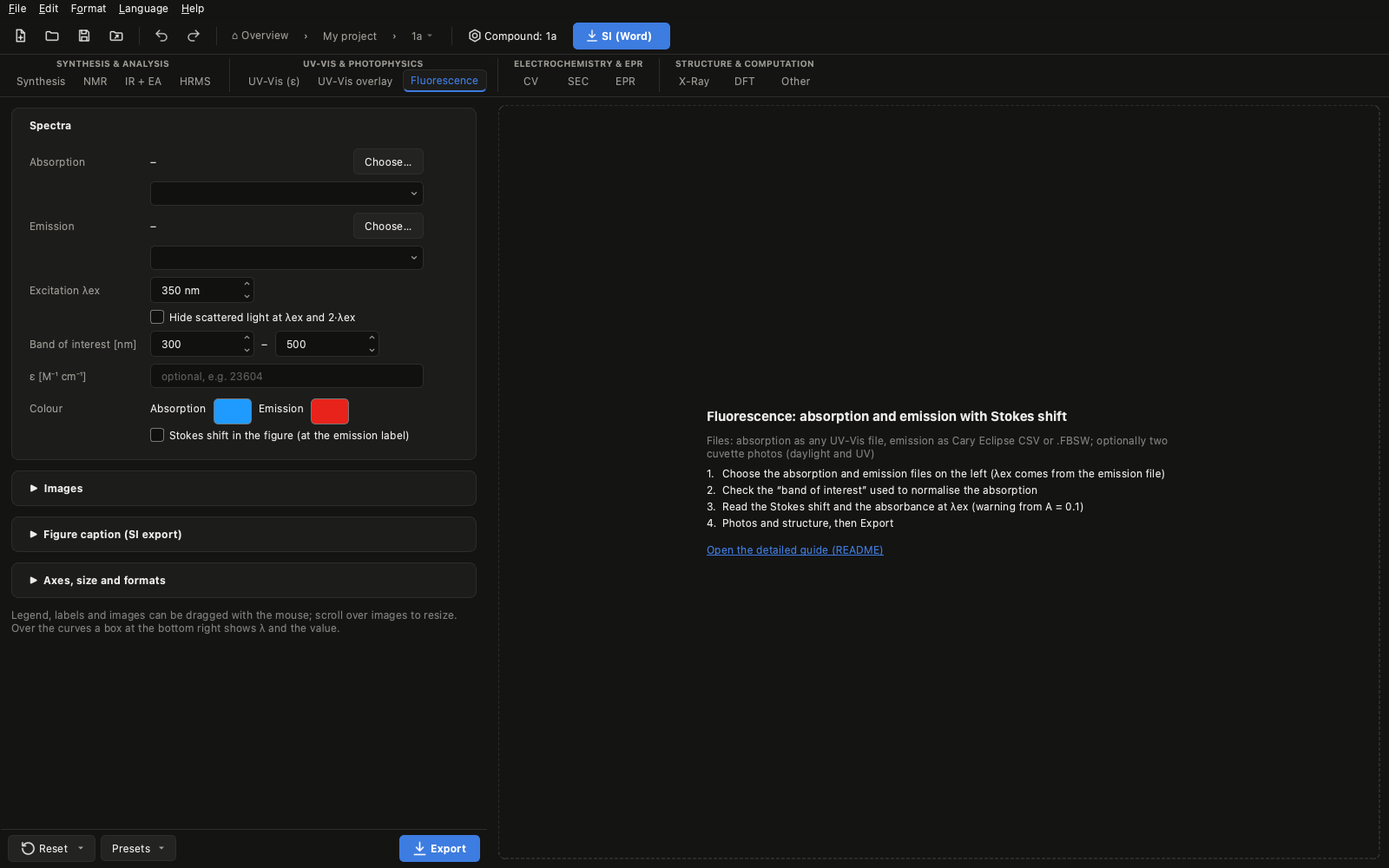
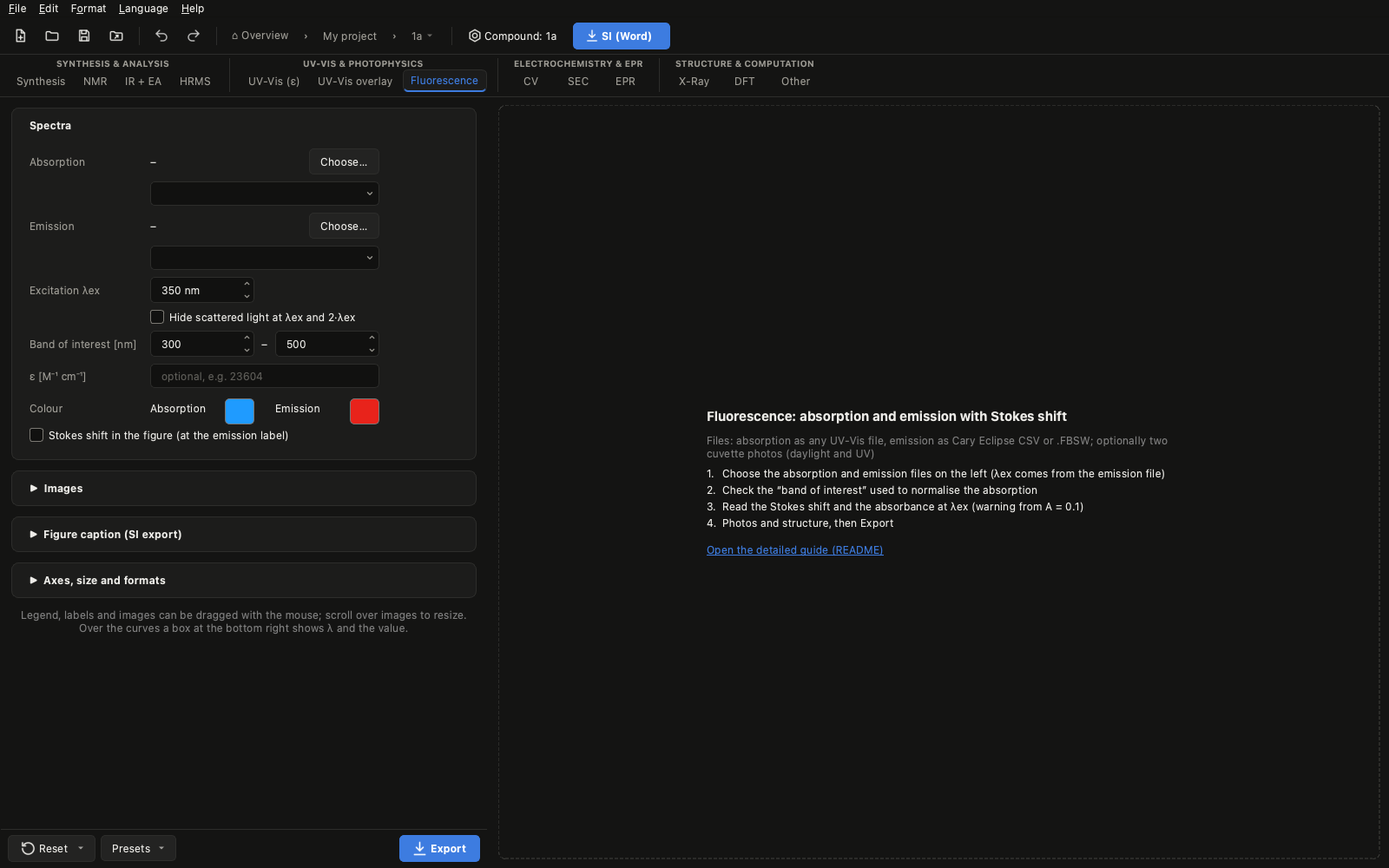
ui: two-column field grid, centred table cells, superscript nuclei
- Field grid A | gap | B (STYLE._field_edge): ranges, choice + value, value + checkbox in A and B;
  lists, text fields and file rows exactly to the common edge; long in-between labels and
  "☑ full"-type checkboxes on their own line; checkbox rows two per line; file rows with bin icon
- Table cells centred like the headers (STYLE._CellDelegate); colour swatches centred in cells
- NMR lists: superscript mass numbers (¹H, ¹³C; DEPT135/2D unchanged), selftest assert
- Hint below the cards centred; changelogs and README screenshots

Changed region(s): [[0.0, 0.682, 0.3438, 0.744], [0.0312, 0.434, 0.2812, 0.527], [0.25, 0.248, 0.2812, 0.279]]

diff --git a/elucida/app/style.py b/elucida/app/style.py
@@ -150,9 +150,13 @@ def hide_when_empty(table):
     upd()
 
 
-class _CheckDelegate(QStyledItemDelegate):
-    """Kästchen ohne Text mittig in der Zelle (Qt setzt es sonst an den linken Rand, z. B. unter breiten Überschriften).
-    Zeichnen und Klicken über dasselbe Rechteck; Zellen mit Text bleiben unverändert."""
+class _CellDelegate(QStyledItemDelegate):
+    """Tabellenzellen mittig wie die Spaltenüberschriften (Nutzerwunsch); Kästchen ohne Text mittig in der Zelle (Qt
+    setzt es sonst an den linken Rand) – Zeichnen und Klicken über dasselbe Rechteck."""
+
+    def initStyleOption(self, option, index):
+        super().initStyleOption(option, index)
+        option.displayAlignment = Qt.AlignCenter
 
     def _box(self, option, index):
         if index.data(Qt.DisplayRole) or index.data(Qt.CheckStateRole) is None:
@@ -230,7 +234,8 @@ def card(title):
 
 
 FIELD_W = 120                     # einheitliche Breite der Zahlenfelder (Raster der linken Spalte)
-WIDE_W = 2 * FIELD_W + 24          # Wertespalte: Listen, Textfelder, „[a] – [b]“ enden an einer Kante (Nutzerwunsch)
+GAP_W = 24                         # Lücke zwischen Feld A und B (Platz für „–“/„×“)
+WIDE_W = 2 * FIELD_W + GAP_W       # Wertespalte: Listen, Textfelder, „[a] – [b]“ enden an einer Kante (Nutzerwunsch)
 COLUMN_W = 538                    # linke Spalte in allen Tabs gleich breit (breiter nur, wenn Inhalt sonst abgeschnitten)
 CHECKS_IN_FIELD_COLUMN = True     # Häkchen-Zeilen in der Wertespalte (eine Kante für alle Bedienelemente)
 
@@ -243,48 +248,132 @@ def _fw(fl, r):
     return li.sizeHint().width() + fl.horizontalSpacing() + fi.sizeHint().width()
 
 
+def _cell(x, w):
+    """Feld fest auf eine Rasterbreite setzen (Zahlenfelder setzt _WheelGuard nach dem Stylesheet erneut)."""
+    if x.maximumWidth() != w:
+        x.setFixedWidth(w)
+
+
+def _strip_stretch(lay):
+    for i in reversed(range(lay.count())):
+        if lay.itemAt(i).spacerItem() is not None:
+            lay.takeAt(i)
+
+
 def _field_edge(root):
-    """Wertespalte je Tab an einer Kante (siehe unten): Listen und Textfelder
-    genau so breit, in Zeilen mit mehreren Teilen wächst das erste dehnbare Element (Dateiname, Textfeld, Lücke vor
-    den Knöpfen) auf die Kante. Feste Breiten statt Formularrand: der würde die Mindestbreite der Spalte mitziehen."""
-    from PySide6.QtWidgets import QAbstractScrollArea, QLineEdit
-    forms = [fl for fl in root.findChildren(QFormLayout) if fl.parentWidget() is not None]
-    items = [it for fl in forms for it in (fl.itemAt(r, QFormLayout.FieldRole) for r in range(fl.rowCount()))
-             if it is not None]
-    if not items:
-        return
-    for it in items:
-        if it.widget() is not None:
-            it.widget().ensurePolished()
-    # Kante je Tab: mindestens WIDE_W, sonst die breiteste Zeile aus mehreren Teilen („[a] Ränder [b]“), aber nie
-    # breiter als die feste Spalte (COLUMN_W abzüglich Ränder und Beschriftungsspalte) – die Abbildung bleibt gleich groß
-    lab = max((fl.itemAt(r, QFormLayout.LabelRole).widget().minimumWidth() for fl in forms for r in range(fl.rowCount())
-               if fl.itemAt(r, QFormLayout.LabelRole) is not None and fl.itemAt(r, QFormLayout.LabelRole).widget()),
-              default=0)
-    room = COLUMN_W - 2 * 12 - 2 * 16 - lab - 12 - 10          # Reserve: verschachtelte Karten, Klappkarten
-    wide = max([WIDE_W] + [h for h in (it.sizeHint().width() for it in items if it.layout() is not None) if h <= room])
-    stretchy = (QLineEdit, QComboBox, QAbstractScrollArea)
-    for fl in forms:
+    """Zwei-Spalten-Raster der Wertespalte (Nutzerwunsch Symmetrie): Feld A = FIELD_W, Lücke GAP_W, Feld B = FIELD_W,
+    zusammen WIDE_W. Einzelwert in A; „[a] – [b]“, „[a] × [b]“, Auswahl + Wert und Wert + Häkchen in A und B; Listen,
+    Textfelder und Dateizeilen genau bis zur Kante. Zwei Werte mit langer Zwischenbeschriftung („[a] Ränder [b]“)
+    und „☑ gesamt [a] – [b]“ bekommen eine zweite Zeile. Feste Breiten statt Formularrand (der zöge die Spalte mit)."""
+    from PySide6.QtWidgets import QAbstractScrollArea, QCheckBox, QLineEdit
+    from elucida.app.i18n import T
+    U, G, W = FIELD_W, GAP_W, WIDE_W
+    value = (QAbstractSpinBox, QComboBox, QLineEdit)
+    for fl in [fl for fl in root.findChildren(QFormLayout) if fl.parentWidget() is not None]:
         fl.setFieldGrowthPolicy(QFormLayout.FieldsStayAtSizeHint)
-    for it in items:
-        w, lay = it.widget(), it.layout()
-        if isinstance(w, stretchy) and w.maximumWidth() != FIELD_W:
-            w.setFixedWidth(wide)
-        elif isinstance(lay, QHBoxLayout) and lay.sizeHint().width() < wide:
-            extra = wide - lay.sizeHint().width()
-            for i in range(lay.count()):
-                sub_ = lay.itemAt(i)
-                x = sub_.widget()
-                if sub_.spacerItem() is not None and sub_.expandingDirections() & Qt.Horizontal:
-                    sp = sub_.spacerItem()
-                    sp.changeSize(sp.sizeHint().width() + extra, 0, QSizePolicy.Fixed, QSizePolicy.Minimum)
-                elif (isinstance(x, stretchy) or (isinstance(x, QLabel) and lay.stretch(i) > 0)) and \
-                        x.maximumWidth() != FIELD_W:
-                    x.setFixedWidth(x.sizeHint().width() + extra)
+        for r in reversed(range(fl.rowCount())):            # Häkchenreihen (≥ 3) zu zweit in Feld A und B
+            it = fl.itemAt(r, QFormLayout.SpanningRole)
+            lay = it.layout() if it is not None else None
+            if not isinstance(lay, QHBoxLayout):
+                continue
+            cbs = [lay.itemAt(i).widget() for i in range(lay.count()) if lay.itemAt(i).widget() is not None]
+            if len(cbs) < 3 or not all(isinstance(x, QCheckBox) for x in cbs):
+                continue
+            for x in cbs:
+                lay.removeWidget(x)
+            fl.removeRow(r)                                   # leeres Layout weg (Widgets sind schon herausgenommen)
+            for k in reversed(range(0, len(cbs), 2)):
+                h = QHBoxLayout()
+                h.setSpacing(0)
+                h.setProperty("grid", True)
+                cbs[k].setFixedWidth(U + G)
+                h.addWidget(cbs[k])
+                if k + 1 < len(cbs):
+                    h.addWidget(cbs[k + 1])
+                h.addStretch(1)
+                fl.insertRow(r, "", h)
+        for r in reversed(range(fl.rowCount())):
+            it = fl.itemAt(r, QFormLayout.FieldRole)
+            if it is None:
+                continue
+            w, lay = it.widget(), it.layout()
+            if w is not None:
+                if isinstance(w, (QLineEdit, QComboBox, QAbstractScrollArea)) and w.maximumWidth() != U:
+                    _cell(w, W)
+                continue
+            if not isinstance(lay, QHBoxLayout) or lay.property("grid"):
+                continue
+            lay.setProperty("grid", True)
+            ws = [lay.itemAt(i).widget() for i in range(lay.count()) if lay.itemAt(i).widget() is not None]
+            if len(ws) >= 3 and isinstance(ws[0], QCheckBox) and isinstance(ws[1], value):
+                lay.removeWidget(ws[0])                        # „☑ gesamt“/„☑ einsetzen“ unter die Werte
+                fl.insertRow(r + 1, "", ws[0])
+                ws = ws[1:]
+            if len(ws) == 3 and isinstance(ws[0], value) and isinstance(ws[1], QLabel) and isinstance(ws[2], value):
+                a, mid, b = ws
+                _cell(a, U)
+                _cell(b, U)
+                if len(mid.text().strip()) > 1:               # lange Zwischenbeschriftung: eigene Zeile
+                    lay.removeWidget(mid)
+                    lay.removeWidget(b)
+                    lab = fl.itemAt(r, QFormLayout.LabelRole)
+                    lab = lab.widget() if lab is not None else None
+                    mid.setWordWrap(True)
+                    mid.setProperty("formlabel", True)
+                    if lab is not None and lab.maximumWidth() < 10000:
+                        mid.setMinimumWidth(lab.minimumWidth())
+                        mid.setMaximumWidth(lab.maximumWidth())
+                    mid.setMinimumHeight(b.sizeHint().height())
+                    mid.setAlignment(Qt.AlignLeft | Qt.AlignVCenter)
+                    mid.style().unpolish(mid)
+                    mid.style().polish(mid)
+                    fl.insertRow(r + 1, mid, b)
                 else:
-                    continue
-                lay.invalidate()
-                break
+                    lay.setSpacing(0)
+                    mid.setMinimumWidth(G)
+                    mid.setMaximumWidth(G)
+                    mid.setAlignment(Qt.AlignCenter)
+                _strip_stretch(lay)
+                continue
+            if len(ws) == 2 and isinstance(ws[0], value) and isinstance(ws[1], (QCheckBox,) + value):
+                _cell(ws[0], U)
+                if isinstance(ws[1], value):
+                    _cell(ws[1], U)
+                lay.setSpacing(G)
+                _strip_stretch(lay)
+                continue
+            if len(ws) == 4 and isinstance(ws[0], QLabel) and isinstance(ws[2], QLabel) and \
+                    not isinstance(ws[1], value + (QLabel,)) and not isinstance(ws[3], value + (QLabel,)):
+                # „Absorption [■] Emission [■]“: je ein Paar in Feld A und B
+                lay.setSpacing(8)
+                _strip_stretch(lay)
+                for lb, x in ((ws[0], ws[1]), (ws[2], ws[3])):
+                    if isinstance(x, QPushButton):            # Farbfeld quadratisch wie die Symbolknöpfe
+                        x.setFixedWidth(34)
+                    lb.setMinimumWidth(0)
+                    lb.setFixedWidth(max(20, U - x.maximumWidth() if isinstance(x, QPushButton) else
+                                         U - x.sizeHint().width()) - 8)
+                lay.insertSpacing(lay.indexOf(ws[2]), G - 8)
+                continue
+            # Datei-, Einheits- und Auswahl+Knopf-Zeilen: das dehnbare Element füllt bis zur Kante
+            fill = [x for x in ws if (isinstance(x, QLabel) and lay.stretch(lay.indexOf(x)) > 0)
+                    or (isinstance(x, (QLineEdit, QComboBox)) and x.maximumWidth() != U)]
+            if not fill:
+                continue
+            for x in ws:
+                if isinstance(x, QPushButton) and x.text() == T("remove") and len(ws) > 2:
+                    x.setToolTip(T("remove"))                 # Dateizeilen: Papierkorb statt Text (Platz für den Namen)
+                    x.setText("")
+                    x.setIcon(icon("trash"))
+                    x.setFixedWidth(34)
+            others = sum(x.minimumWidth() if x.minimumWidth() == x.maximumWidth() else x.sizeHint().width()
+                         for x in ws if x is not fill[0]) + 8 * (len(ws) - 1)
+            if W - others < 60:                               # passt nicht ins Raster: Zeile bleibt, wie sie ist
+                continue
+            lay.setSpacing(8)
+            _strip_stretch(lay)
+            fill[0].setMinimumWidth(0)
+            fill[0].setFixedWidth(W - others)
 
 
 def tidy(root):
@@ -355,6 +444,9 @@ def tidy(root):
             if isinstance(first, QCheckBox) and isinstance(second, QAbstractSpinBox):
                 lay.setSpacing(8)                             # -1 (Stil-Standard) verschob den Wert um 1 px
                 first.setMinimumWidth(lab_w + fl.horizontalSpacing() - lay.spacing())
+                if lay.count() > 2 and not lay.property("grid"):   # drittes Element in Feld B
+                    lay.setProperty("grid", True)
+                    lay.insertSpacing(2, GAP_W - lay.spacing())
         # Beschriftung so hoch wie ihr Feld, Text darin mittig: Qt setzt Beschriftungen sonst mit einem festen Versatz,
         # der bei den höheren Feldern 2–3 px zu hoch liegt
         for r in range(fl.rowCount()):
@@ -391,14 +483,14 @@ def tidy(root):
                         lay.setContentsMargins(indent, 0, 0, 0)
     _field_edge(root)
     from PySide6.QtWidgets import QTableWidget
-    for t in root.findChildren(QTableWidget):                # Kästchen ohne Text mittig (alle Listen)
-        if not isinstance(t.itemDelegate(), _CheckDelegate):
-            t.setItemDelegate(_CheckDelegate(t))
+    for t in root.findChildren(QTableWidget):                # Zellen und Kästchen mittig (alle Tabellen)
+        if not isinstance(t.itemDelegate(), _CellDelegate):
+            t.setItemDelegate(_CellDelegate(t))
     for h in root.findChildren(HintLabel):                    # leere Hinweise ohne Zeile
         h.sync()
     for lay in root.findChildren(QHBoxLayout):
         items = [lay.itemAt(i) for i in range(lay.count())]
-        if any(isinstance(it.widget(), (QLabel, QCheckBox)) for it in items[1:]):   # Beschriftung nicht ankleben
+        if not lay.property("grid") and any(isinstance(it.widget(), (QLabel, QCheckBox)) for it in items[1:]):   # Beschriftung nicht ankleben
             lay.setSpacing(max(lay.spacing(), 8))
         ws = [it.widget() for it in items if it.widget() is not None]
         # nur feste Elemente: links zusammenhalten statt über die Breite verteilen

diff --git a/elucida/tabs/base.py b/elucida/tabs/base.py
@@ -88,16 +88,20 @@ def reset_button(reset_layout, reset_defaults):
     return b
 
 
-def color_button(color, on_pick):
+def color_button(color, on_pick, cell=False):
+    """Farbfeld; cell: in einer Tabellenzelle mit gleichem Rand ringsum (mittig wie die übrigen Zellen)."""
     b = QPushButton()
-    b.setFixedSize(44, 22)
-    b.setStyleSheet(f"background-color: {color}; border: 1px solid #777;")
+    css = "margin: 4px 12px; " if cell else ""
+    if not cell:
+        b.setFixedSize(44, 22)
+    b.setProperty("cellcss", css)
+    b.setStyleSheet(f"{css}background-color: {color}; border: 1px solid #777;")
 
     def pick():
         c = QColorDialog.getColor(QColor(b.property("color") or color))
         if c.isValid():
             b.setProperty("color", c.name())
-            b.setStyleSheet(f"background-color: {c.name()}; border: 1px solid #777;")
+            b.setStyleSheet(f"{css}background-color: {c.name()}; border: 1px solid #777;")
             on_pick(c.name())
     b.setProperty("color", color)
     b.clicked.connect(pick)
@@ -500,7 +504,7 @@ class FigureTab(QWidget):
         self.build_controls()
         self.grp_common = self.common_box()
         self.lv.addWidget(self.grp_common)
-        hint = QLabel(T("drag_hint_tab"))
+        hint = QLabel(T("drag_hint_tab"), alignment=Qt.AlignHCenter)     # Fußnote unter den Karten: mittig
         hint.setWordWrap(True)
         hint.setStyleSheet(HINT_CSS)
         self.lv.addWidget(hint)
@@ -1689,7 +1693,7 @@ class OverlayTab(FigureTab):
             it.setCheckState(Qt.Checked if e["visible"] else Qt.Unchecked)
             self.table.setItem(i, 0, it)
             self.table.setItem(i, 1, QTableWidgetItem(e["label"]))
-            self.table.setCellWidget(i, 2, color_button(e["color"], lambda c, e=e: self._set_color(e, c)))
+            self.table.setCellWidget(i, 2, color_button(e["color"], lambda c, e=e: self._set_color(e, c), cell=True))
             it = QTableWidgetItem(T("ov_eps_linked") if e.get("link") == "eps" else
                                   {"exp": T("ov_exp"), "sec": "SEC", "secser": T("ov_sec_series")}.get(e["kind"], "TD-DFT"))
             it.setFlags(it.flags() & ~Qt.ItemIsEditable)

diff --git a/elucida/tabs/nmr.py b/elucida/tabs/nmr.py
@@ -412,6 +412,14 @@ from PySide6.QtWidgets import (QAbstractItemView, QCheckBox, QComboBox, QDoubleS
 from elucida.app import project as PRJ, style as STYLE  # noqa: E402
 from elucida.app.style import HINT_CSS, make_form  # noqa: E402
 
+_SUP = str.maketrans("0123456789", "⁰¹²³⁴⁵⁶⁷⁸⁹")
+
+
+def sup_nuclei(text):
+    """Massenzahl vor einem Elementsymbol hochstellen (1H/13C -> ¹H/¹³C; DEPT135 bleibt) – nur für die Anzeige."""
+    return re.sub(r"(?<![A-Za-z0-9])\d+(?!D\b)(?=[A-Z])", lambda m: m.group().translate(_SUP), text or "")   # „2D“ bleibt
+
+
 FIG_W_CM = 16.0                    # Breite der Spektren in Word (zwei Abbildungen je Seite, wie in der SI)
 
 
@@ -712,7 +720,8 @@ class NMRTab(QWidget):
         sp = self.spectra()
         self.tbl.setRowCount(len(sp))
         for r, s in enumerate(sp):
-            for c, val in enumerate((Path(s["file"]).name, "/".join(s.get("nuclei") or []) or "?", s.get("kind"))):
+            nuc = sup_nuclei("/".join(s.get("nuclei") or []))
+            for c, val in enumerate((Path(s["file"]).name, nuc or "?", s.get("kind"))):
                 it = QTableWidgetItem(val)
                 if c == 1 and not s.get("nuclei"):
                     it.setToolTip(T("nmr_nuc_missing"))
@@ -908,7 +917,7 @@ class NMRTab(QWidget):
         self.tbl_raw.setRowCount(len(rows))
         for i, row in enumerate(rows):
             for c, val in enumerate(row[:4]):
-                it = QTableWidgetItem(val)
+                it = QTableWidgetItem(sup_nuclei(val) if c == 0 else val)
                 if c == 0:
                     it.setData(Qt.UserRole, row[4])
                 self.tbl_raw.setItem(i, c, it)

diff --git a/elucida/tabs/cv.py b/elucida/tabs/cv.py
@@ -688,7 +688,8 @@ class CVTab(TABS.FigureTab):
             it.setCheckState(Qt.Checked if e["visible"] else Qt.Unchecked)
             self.table.setItem(i, 0, it)
             self.table.setItem(i, 1, QTableWidgetItem(e["label"]))
-            self.table.setCellWidget(i, 2, TABS.color_button(e["color"], lambda c, e=e: self._set_color(e, c)))
+            self.table.setCellWidget(i, 2, TABS.color_button(e["color"], lambda c, e=e: self._set_color(e, c),
+                                                              cell=True))
             try:
                 rate = self.data(e["file"])["meta"]["scanrate"]
             except Exception:
@@ -720,7 +721,7 @@ class CVTab(TABS.FigureTab):
             col = grad.get(e["uid"], e["color"])
             b.setEnabled(not grad)
             b.setToolTip(T("cv_color_gradient_tip") if grad else "")
-            b.setStyleSheet(f"background-color: {col}; border: 1px solid #777;")
+            b.setStyleSheet(f"{b.property('cellcss') or ''}background-color: {col}; border: 1px solid #777;")
 
     def _set_color(self, e, c):
         e["color"] = c

diff --git a/elucida/selftest.py b/elucida/selftest.py
@@ -4293,6 +4293,7 @@ def selftest(outdir, with_isnet=False):
         report.append("Synthesis (amount check with rounding, reagent table, ChemDraw object, SI): OK")
 
         # Audit P7: NMR-Text/-Leser, Synthese (Mengen, Formeln, Schema-Rollen), Struktur, EA mit Deuterium
+        assert [NMR.sup_nuclei(t_) for t_ in ("1H/13C", "29Si", "DEPT135", "2D")] == ["\u00b9H/\u00b9\u00b3C", "\u00b2\u2079Si", "DEPT135", "2D"]
         bl7 = NMR.parse_mnova("(1H Multiplet Report)\n1H NMR (500 MHz, C6D6) δ 7.33 – 7.29 (m, 2H), 0.91 (s, 3H)."
                               "\n\n(13C Peak Report)\n13C NMR (126 MHz, C6D6) δ = 155.53, 6.64.\n")   # wie Mnova speichert
         assert bl7[0]["signals"][-1]["nH"] == "3H" and NMR.nmr_line(bl7[0])[0].endswith("0.91 (s, 3H)"), bl7[0]

diff --git a/elucida/tabs/epr.py b/elucida/tabs/epr.py
@@ -1097,7 +1097,8 @@ class EPRTab(TABS.FigureTab):
             it.setCheckState(Qt.Checked if e["visible"] else Qt.Unchecked)
             self.table.setItem(i, 0, it)
             self.table.setItem(i, 1, QTableWidgetItem(e["label"]))
-            self.table.setCellWidget(i, 2, TABS.color_button(e["color"], lambda c, e=e: self._set_color(e, c)))
+            self.table.setCellWidget(i, 2, TABS.color_button(e["color"], lambda c, e=e: self._set_color(e, c),
+                                                              cell=True))
             for j, txt in ((3, T("epr_kind_" + e["kind"])), (4, f"{e['T']:.0f}" if e.get("T") else "–")):
                 it = QTableWidgetItem(txt)
                 it.setFlags(it.flags() & ~Qt.ItemIsEditable)

diff --git a/CHANGELOG.de.md b/CHANGELOG.de.md
@@ -8,15 +8,17 @@
 - **Aufbau:** Die Einstellungsspalte ist in allen Tabs gleich breit und fest (nicht mehr verschiebbar); lange
   Beschriftungen gekürzt (Details im Tooltip), Zahlenfelder schmaler, Listenknöpfe in zwei Reihen (Hinzufügen /
   Auswahl). Leere Dateilisten bleiben ausgeblendet, bis etwas geladen ist. Karten, Formulare und Dialoge mit einem
-  gemeinsamen Abstandsraster; der Standardknopf jedes Dialogs ist hervorgehoben. Felder im festen Raster:
-  Zahlenfelder gleich breit, Auswahllisten, Textfelder und Bereiche enden je Tab an einer Kante; Text in allen Feldern
-  linksbündig mit gleichem Abstand zum Rand; leere Hinweiszeilen hinterlassen keine Lücke; Kästchen in Listen mittig in
-  ihrer Spalte; Kartentitel bündig mit dem Karteninhalt.
+  gemeinsamen Abstandsraster; der Standardknopf jedes Dialogs ist hervorgehoben. Felder im Zwei-Spalten-Raster
+  (Wert A, Lücke, Wert B): Einzelwerte in A, Bereiche, Auswahl + Wert und Wert + Häkchen in A und B, Listen,
+  Textfelder und Dateizeilen genau bis zur gemeinsamen Kante; zwei Werte mit langer Beschriftung dazwischen und
+  Häkchen wie „☑ gesamt“ bekommen eine eigene Zeile, Häkchenreihen zu zweit; „Entfernen“ in Dateizeilen als Papierkorb; Text in allen Feldern
+  linksbündig mit gleichem Abstand zum Rand; leere Hinweiszeilen hinterlassen keine Lücke; Tabellenzellen und Kästchen in
+  Listen mittig; Kartentitel bündig mit dem Karteninhalt; Hinweis unter den Karten mittig.
 - **Navigation:** Der Pfad (Übersicht › Projekt › Verbindung) steht jetzt in der Werkzeugleiste statt in der
   Tab-Leiste; „Verbindung“ und „SI (Word)“ erscheinen nur bei offener Verbindung. Das Fenster lässt sich schmaler
   ziehen (etwa 960 px, halber Full-HD-Bildschirm).
 - **NMR:** Mnova-Dokumente der Verbindung oben in der linken Spalte (Dateiname, ablegen, in Mnova öffnen) statt im
-  Reiter „Rohdaten“.
+  Reiter „Rohdaten“; Kerne in den Listen mit hochgestellter Massenzahl (¹H, ¹³C).
 - **Projektseite:** Titel über die volle Breite, Aktionen in einer Zeile darunter. Mnova-Ablage für das ganze Projekt
   entfernt (vorhandene Dateien bleiben im Ordner `mnova/`).
 - **Startbildschirm:** Beispielprojekt und Beispielverbindung als Links unten; Zeit und Projekt einer Verbindung

diff --git a/CHANGELOG.md b/CHANGELOG.md
@@ -8,14 +8,16 @@
 - **Layout:** the settings column has the same fixed width in every tab (no longer draggable); long labels shortened
   (details in the tooltip), number fields narrower, list buttons in two rows (add / selection). Empty file lists stay
   hidden until something is loaded. Cards, forms and dialogs use one spacing grid; the default button of every dialog
-  is highlighted. Fields on a fixed grid: number fields one width, lists, text fields and ranges end at one common
-  edge per tab; all text in fields left-aligned with the same inset; empty hint lines no longer leave gaps;
-  checkboxes in lists centred in their column; card titles flush with the card content.
+  is highlighted. Fields on a two-column grid (value A, gap, value B): single values in A, ranges, choice + value
+  and value + checkbox in A and B, lists, text fields and file rows exactly to the common edge; two values with a
+  long label in between and "☑ full"-type checkboxes get their own line, rows of checkboxes two per line; "Remove" in
+  file rows as a bin icon; all text in fields left-aligned with the same inset; empty hint lines no longer leave gaps;
+  table cells and checkboxes in lists centred; card titles flush with the card content; hint below the cards centred.
 - **Navigation:** the path (Overview › Project › Compound) moved from the tab bar into the toolbar; "Compound" and
   "SI (Word)" only show with an open compound. The window can be made narrower (about 960 px, half of a full-HD
   screen).
 - **NMR:** Mnova documents of the compound at the top of the left column (file name, store, open in Mnova) instead of
-  the "Raw data" tab.
+  the "Raw data" tab; nuclei in the lists with superscript mass numbers (¹H, ¹³C).
 - **Project page:** title over the full width, actions in a row below. Storing a Mnova document for the whole project
   was removed (existing files stay in the folder `mnova/`).
 - **Start screen:** example project and example compound as links at the bottom; time and project of a compound

diff --git a/CLAUDE.md b/CLAUDE.md
@@ -266,9 +266,10 @@ Fluoreszenz, CV, SEC, EPR, X-Ray (CIF) und DFT (xyz); SI-Abschnitt als Word-Date
   über Hilfe → Protokoll. Meldungen als Einblendung unten rechts (`_toast`), keine Statusleiste. Neue Karten dort einordnen; Abstände zentral in `STYLE.tidy`.
   Spalte in allen Tabs gleich breit (`STYLE.COLUMN_W`, Trennlinie fest, Nutzerwunsch; breiter nur, wenn sonst
   abgeschnitten): lange Beschriftungen kürzen (Langform in den Tooltip), Zahlenfelder `FIELD_W` 120, Listen/Textfelder/
-  Bereiche enden je Tab an einer Kante (`WIDE_W`, `_field_edge` in `tidy`), Text in allen Feldern linksbündig mit
-  gleichem Einzug (Nutzerwunsch, nicht zentrieren), Hinweiszeilen als `STYLE.HintLabel` (leer = keine Zeile), Kästchen ohne
-  Text in Tabellen mittig (`_CheckDelegate`, von `tidy` gesetzt – keine eigenen Delegates ohne Rücksicht darauf), Listenknöpfe
+  Bereiche im Zwei-Spalten-Raster A | `GAP_W` | B = `WIDE_W` (`_field_edge` in `tidy`: lange Zwischenbeschriftung
+  und „☑ gesamt“ → eigene Zeile, Häkchenreihen zu zweit, Dateizeilen bis zur Kante); Text in allen Feldern linksbündig mit
+  gleichem Einzug (Nutzerwunsch, nicht zentrieren), Hinweiszeilen als `STYLE.HintLabel` (leer = keine Zeile), Tabellenzellen
+  und Kästchen ohne Text mittig (`_CellDelegate`, von `tidy` gesetzt – keine eigenen Delegates ohne Rücksicht darauf), Listenknöpfe
   in zwei Reihen (Hinzufügen / Auswahl). Leere Dateilisten ausgeblendet (`STYLE.hide_when_empty`). Fenster bedienbar
   ab ~960 px (halber 1920er-Bildschirm): Tab-Leiste und Startbildschirm nicht breiter machen.
 - Tab-Reihenfolge wie die SI: Synthese · NMR · IR + EA · HRMS · UV-Vis (ε) · Overlay · Fluoreszenz · CV · SEC · EPR ·
